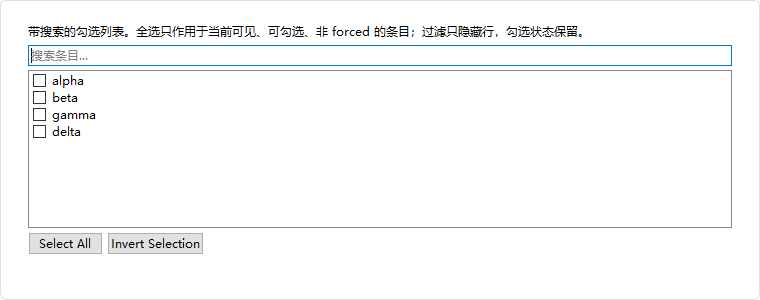
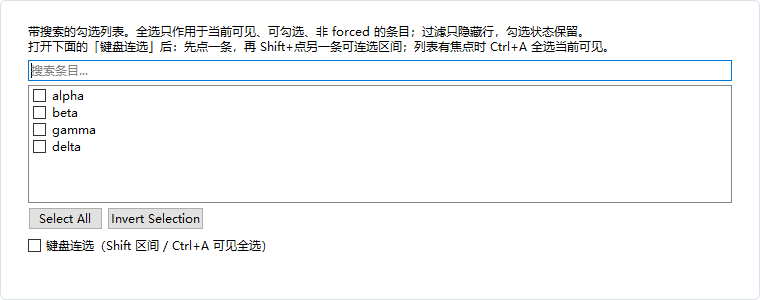
docs(check-list): 补充键盘批量勾选说明（中文/English）

Changed region(s): [[0.0303, 0.12, 0.9684, 0.51], [0.0303, 0.66, 0.9684, 0.87]]

diff --git a/docs/en/use-guide/item-selection.md b/docs/en/use-guide/item-selection.md
@@ -54,6 +54,17 @@ check->setEntryForcedChecked(forced, true);
 check->setEntryEnabled(forced, false);
 ```
 
+### Keyboard Range Selection
+
+```cpp
+check->setKeyboardSelectionEnabled(true);   // default false
+```
+
+- **Shift+click**: using the most recent user click as the anchor, every "visible + checkable + non-forced + enabled" entry between the anchor and the target row (inclusive) gets the anchor row's current state (checked or unchecked); the whole range emits `checkedEntriesChanged()` once.
+- **Ctrl+A**: when the list/view has focus, the same as clicking "Select All" — only currently visible entries are checked. When the search box has focus, Ctrl+A still selects its text.
+- Off by default; while off the widget behaves exactly as before. The anchor is reset when the filter changes, on `setItems()`, and when the switch is turned off, so ranges never span different filters.
+- Forced / `setEntryEnabled(false)` / `setEntryCheckable(false)` entries are skipped by a range and keep their existing state.
+
 ### Core methods
 
 | Method | Description |
@@ -64,6 +75,7 @@ check->setEntryEnabled(forced, false);
 | `setEntryEnabled(e, bool)` | Entry availability |
 | `setEntryCheckable(e, bool)` | Whether the entry shows a checkbox |
 | `setSearchVisible(bool)` / `setSelectAllVisible(bool)` / `setInvertVisible(bool)` | Toggle search and action buttons |
+| `setKeyboardSelectionEnabled(bool)` / `keyboardSelectionEnabled()` | Shift range selection + Ctrl+A visible select-all (default off) |
 
 ## DAItemListPickDialog
 

diff --git a/docs/use-guide/item-selection.md b/docs/use-guide/item-selection.md
@@ -54,6 +54,17 @@ check->setEntryForcedChecked(forced, true);
 check->setEntryEnabled(forced, false);
 ```
 
+### 键盘批量勾选
+
+```cpp
+check->setKeyboardSelectionEnabled(true);   // 默认 false
+```
+
+- **Shift+点击**：以最近一次用户点击为锚点，把锚点到目标行（含两端）之间所有「可见 + 可勾选 + 非 forced + 可用」的条目设为锚点行当前状态（勾上或取消），整段只发一次 `checkedEntriesChanged()`。
+- **Ctrl+A**：列表或视图有焦点时，等价于点击「全选」按钮，只勾选当前可见条目；搜索框有焦点时 Ctrl+A 仍是文本框全选。
+- 默认关闭，关闭时控件行为与旧版完全一致；锚点会在搜索过滤变化、`setItems()`、关闭开关时重置，不会跨过滤连选。
+- forced / `setEntryEnabled(false)` / `setEntryCheckable(false)` 的条目会被区间跳过，保持各自原有状态。
+
 ### 核心方法
 
 | 方法 | 说明 |
@@ -64,6 +75,7 @@ check->setEntryEnabled(forced, false);
 | `setEntryEnabled(e, bool)` | 条目是否可用 |
 | `setEntryCheckable(e, bool)` | 条目是否显示复选框 |
 | `setSearchVisible(bool)` / `setSelectAllVisible(bool)` / `setInvertVisible(bool)` | 控制搜索框与操作按钮显隐 |
+| `setKeyboardSelectionEnabled(bool)` / `keyboardSelectionEnabled()` | Shift 区间连选 + Ctrl+A 可见全选（默认关闭） |
 
 ## DAItemListPickDialog
 
